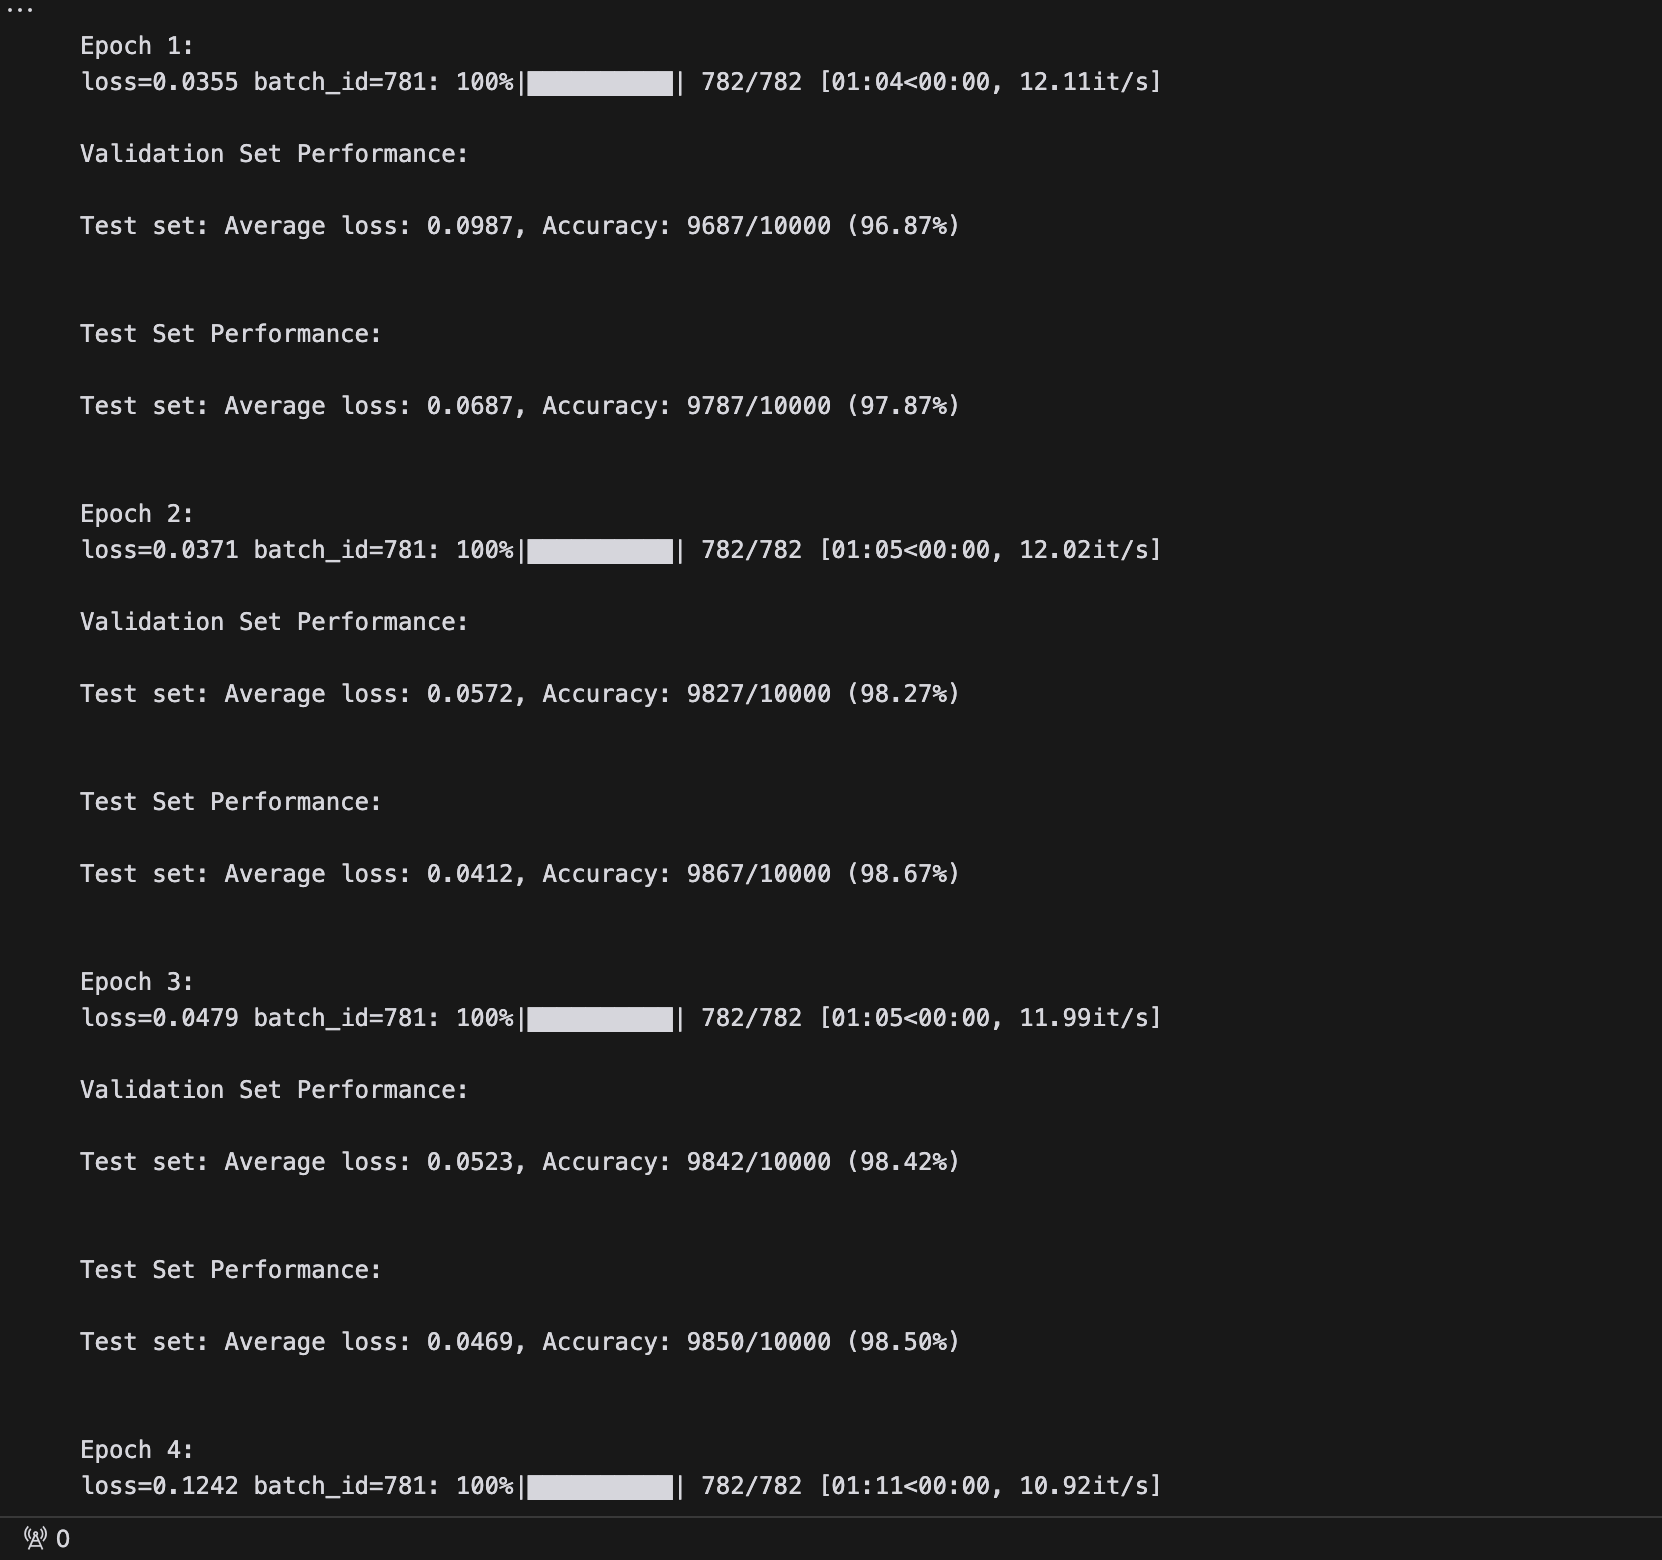
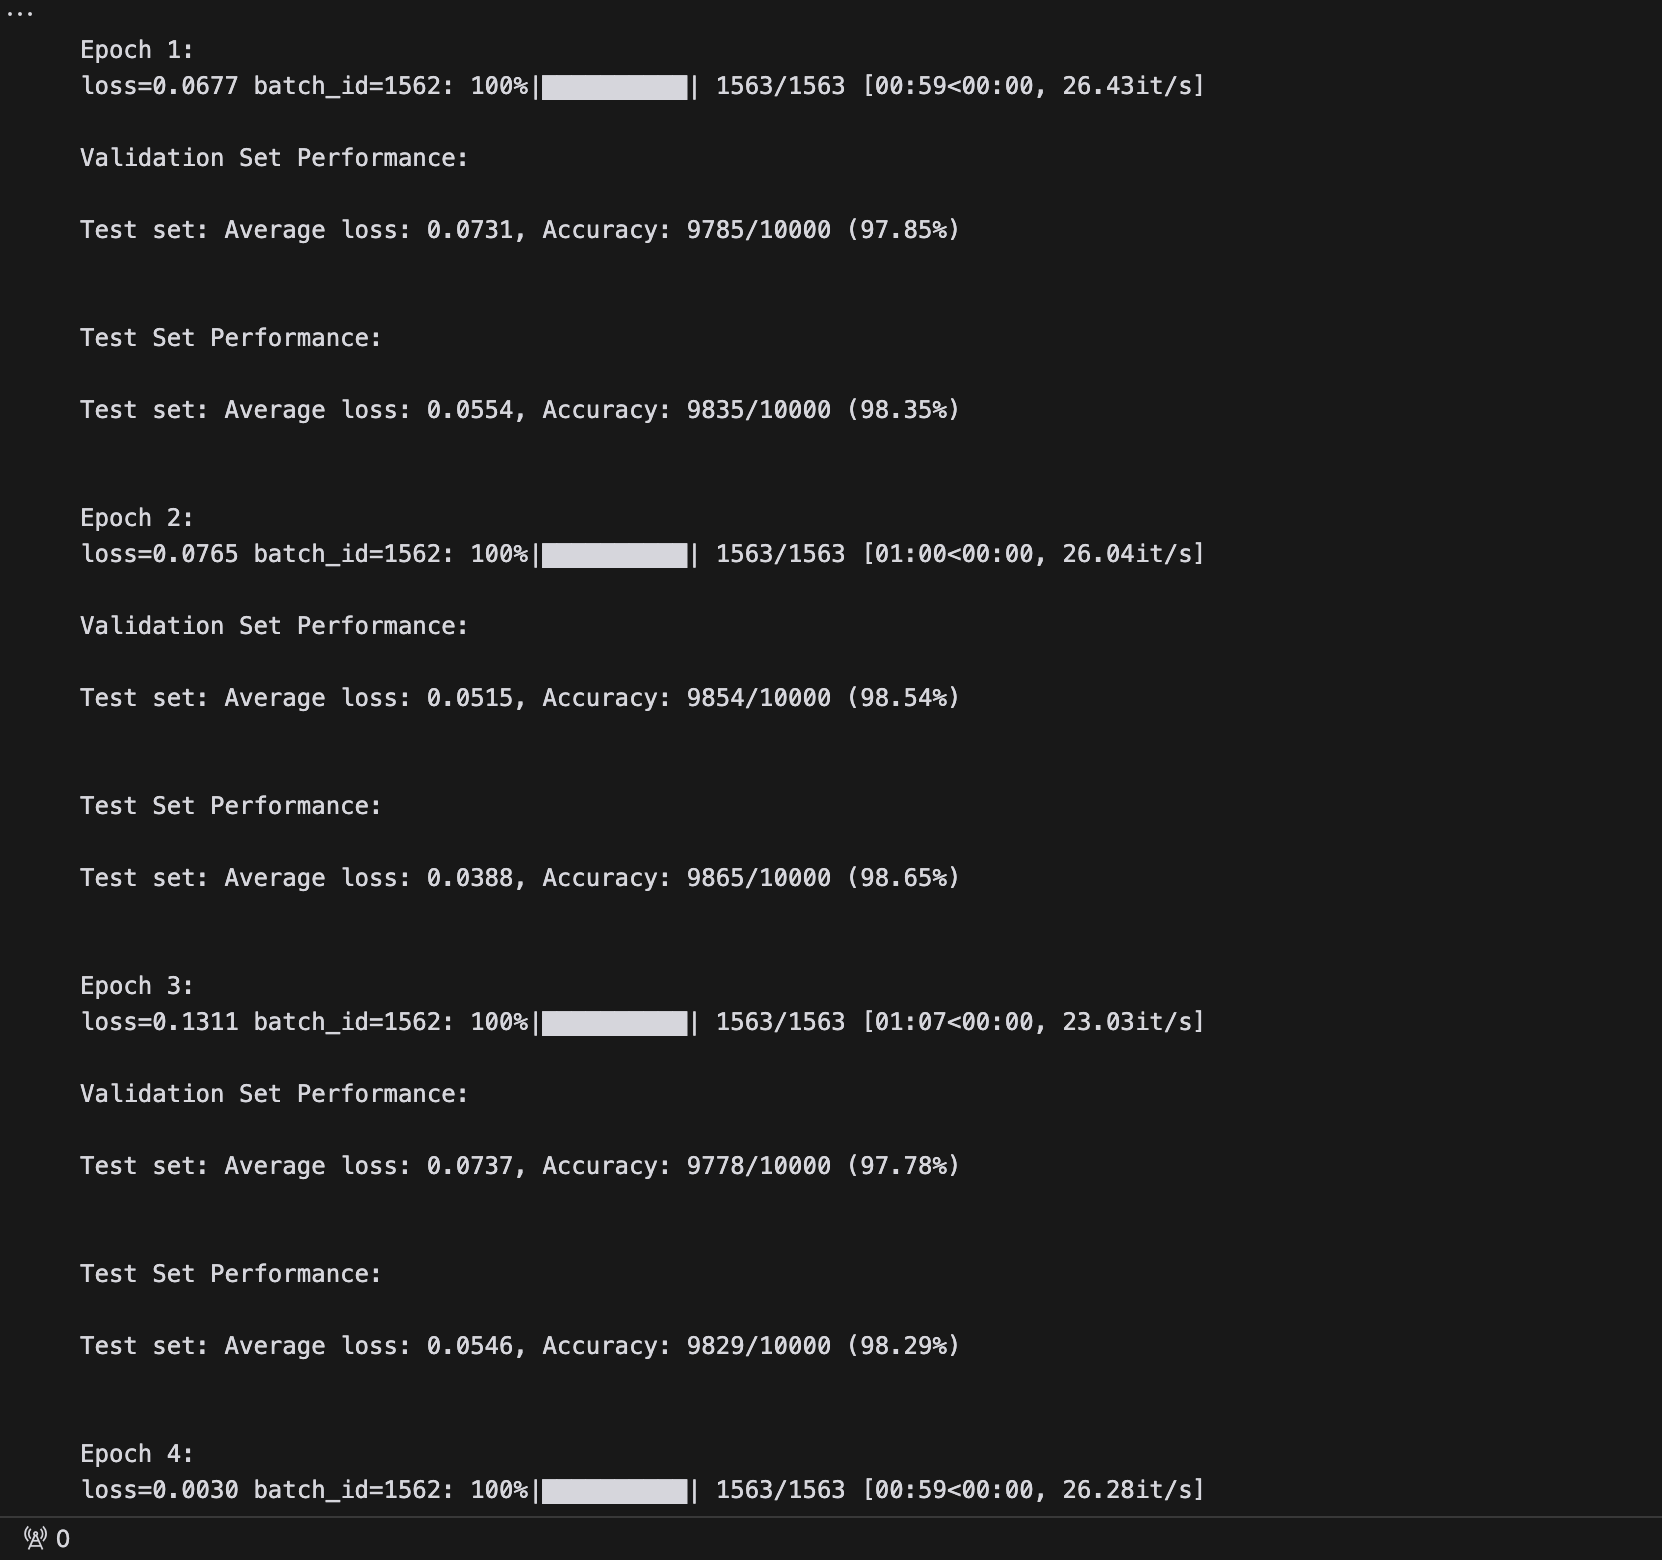
finished

diff --git a/mnist_99_4.py b/mnist_99_4.py
@@ -19,54 +19,54 @@ class Net(nn.Module):
         
         # CONV Block 1
         self.conv2 = nn.Sequential(
-            nn.Conv2d(16, 32, 3, padding=1),  # 28x28x32
+            nn.Conv2d(16, 20, 3, padding=1),  # 28x28x20
             nn.ReLU(),
-            nn.BatchNorm2d(32),
+            nn.BatchNorm2d(20),
             nn.Dropout(0.01)
         )
         
         # Transition Block 1
         self.trans1 = nn.Sequential(
-            nn.MaxPool2d(2, 2)  # 14x14x32
+            nn.MaxPool2d(2, 2)  # 14x14x20
         )
         
         # CONV Block 2
         self.conv3 = nn.Sequential(
-            nn.Conv2d(32, 32, 3, padding=1),  # 14x14x32
+            nn.Conv2d(20, 24, 3, padding=1),  # 14x14x24
             nn.ReLU(),
-            nn.BatchNorm2d(32),
+            nn.BatchNorm2d(24),
             nn.Dropout(0.01)
         )
         
         # CONV Block 3
         self.conv4 = nn.Sequential(
-            nn.Conv2d(32, 16, 3, padding=1),  # 14x14x16
+            nn.Conv2d(24, 20, 3, padding=1),  # 14x14x20
             nn.ReLU(),
-            nn.BatchNorm2d(16),
+            nn.BatchNorm2d(20),
             nn.Dropout(0.01)
         )
         
         # Transition Block 2
         self.trans2 = nn.Sequential(
-            nn.MaxPool2d(2, 2)  # 7x7x16
+            nn.MaxPool2d(2, 2)  # 7x7x20
         )
         
         # CONV Block 4
         self.conv5 = nn.Sequential(
-            nn.Conv2d(16, 32, 3),  # 5x5x32
+            nn.Conv2d(20, 24, 3),  # 5x5x24
             nn.ReLU(),
-            nn.BatchNorm2d(32),
+            nn.BatchNorm2d(24),
             nn.Dropout(0.01)
         )
         
         # Global Average Pooling
         self.gap = nn.Sequential(
-            nn.AvgPool2d(kernel_size=5)  # 1x1x32
+            nn.AvgPool2d(kernel_size=5)  # 1x1x24
         )
         
         # Output Block
         self.conv6 = nn.Sequential(
-            nn.Conv2d(32, 10, 1)  # 1x1x10
+            nn.Conv2d(24, 10, 1)  # 1x1x10
         )
 
     def forward(self, x):
@@ -119,14 +119,14 @@ def main():
     
     torch.manual_seed(1)
     
-    batch_size = 64
+    batch_size = 32
     epochs = 19
     
     # Enhanced data augmentation
     train_transforms = transforms.Compose([
-        transforms.RandomRotation((-7.0, 7.0), fill=(1,)),
-        transforms.RandomAffine(degrees=0, translate=(0.1, 0.1), scale=(0.95, 1.05)),
-        transforms.RandomPerspective(distortion_scale=0.15, p=0.3),
+        transforms.RandomRotation((-5.0, 5.0), fill=(1,)),
+        transforms.RandomAffine(degrees=0, translate=(0.08, 0.08), scale=(0.97, 1.03)),
+        transforms.RandomPerspective(distortion_scale=0.1, p=0.2),
         transforms.ColorJitter(brightness=0.1, contrast=0.1),
         transforms.ToTensor(),
         transforms.Normalize((0.1307,), (0.3081,))
@@ -169,20 +169,20 @@ def main():
     model = Net().to(device)
     optimizer = optim.SGD(
         model.parameters(),
-        lr=0.01,
+        lr=0.008,
         momentum=0.95,
-        weight_decay=1e-4,
+        weight_decay=5e-5,
         nesterov=True
     )
     
     scheduler = optim.lr_scheduler.OneCycleLR(
         optimizer,
-        max_lr=0.1,
+        max_lr=0.12,
         epochs=epochs,
         steps_per_epoch=len(train_loader),
-        pct_start=0.2,
-        div_factor=10,
-        final_div_factor=100,
+        pct_start=0.25,
+        div_factor=15,
+        final_div_factor=150,
         anneal_strategy='cos'
     )
 

diff --git a/README.md b/README.md
@@ -7,7 +7,7 @@ This project implements a Convolutional Neural Network (CNN) for MNIST digit cla
 ### Early Training (Epochs 1-4)
 ![Early Training Progress](./images/early_training.png)
 
-### Final Training (Epochs 18-19)
+### Final Training (Epochs 16-18)
 ![Final Training Progress](./images/final_training.png)
 
 ## Model Architecture
@@ -26,29 +26,29 @@ Conv2d-1                  [-1, 16, 28, 28]     144
 ReLU-2                    [-1, 16, 28, 28]     0
 BatchNorm2d-3             [-1, 16, 28, 28]     32
 Dropout-4                 [-1, 16, 28, 28]     0
-Conv2d-5                  [-1, 32, 28, 28]     4,608
-ReLU-6                    [-1, 32, 28, 28]     0
-BatchNorm2d-7             [-1, 32, 28, 28]     64
-Dropout-8                 [-1, 32, 28, 28]     0
-MaxPool2d-9               [-1, 32, 14, 14]     0
-Conv2d-10                 [-1, 32, 14, 14]     9,216
-ReLU-11                   [-1, 32, 14, 14]     0
-BatchNorm2d-12            [-1, 32, 14, 14]     64
-Dropout-13                [-1, 32, 14, 14]     0
-Conv2d-14                 [-1, 16, 14, 14]     4,608
-ReLU-15                   [-1, 16, 14, 14]     0
-BatchNorm2d-16            [-1, 16, 14, 14]     32
-Dropout-17                [-1, 16, 14, 14]     0
-MaxPool2d-18              [-1, 16, 7, 7]       0
-Conv2d-19                 [-1, 32, 5, 5]       4,608
-ReLU-20                   [-1, 32, 5, 5]       0
-BatchNorm2d-21            [-1, 32, 5, 5]       64
-Dropout-22                [-1, 32, 5, 5]       0
-AvgPool2d-23              [-1, 32, 1, 1]       0
-Conv2d-24                 [-1, 10, 1, 1]       320
+Conv2d-5                  [-1, 20, 28, 28]     2,880
+ReLU-6                    [-1, 20, 28, 28]     0
+BatchNorm2d-7             [-1, 20, 28, 28]     40
+Dropout-8                 [-1, 20, 28, 28]     0
+MaxPool2d-9               [-1, 20, 14, 14]     0
+Conv2d-10                 [-1, 24, 14, 14]     4,320
+ReLU-11                   [-1, 24, 14, 14]     0
+BatchNorm2d-12            [-1, 24, 14, 14]     48
+Dropout-13                [-1, 24, 14, 14]     0
+Conv2d-14                 [-1, 20, 14, 14]     4,320
+ReLU-15                   [-1, 20, 14, 14]     0
+BatchNorm2d-16            [-1, 20, 14, 14]     40
+Dropout-17                [-1, 20, 14, 14]     0
+MaxPool2d-18              [-1, 20, 7, 7]       0
+Conv2d-19                 [-1, 24, 5, 5]       4,320
+ReLU-20                   [-1, 24, 5, 5]       0
+BatchNorm2d-21            [-1, 24, 5, 5]       48
+Dropout-22                [-1, 24, 5, 5]       0
+AvgPool2d-23              [-1, 24, 1, 1]       0
+Conv2d-24                 [-1, 10, 1, 1]       250
 ================================================================
-Total params: 19,768
-Trainable params: 19,768
+Total params: 16,442
+Trainable params: 16,442
 Non-trainable params: 0
 
 ## Key Features
@@ -60,15 +60,15 @@ Non-trainable params: 0
 
 2. **Training Parameters:**
    - Epochs: 19
-   - Batch Size: 64
+   - Batch Size: 32
    - Optimizer: SGD with Nesterov momentum (0.95)
-   - Learning Rate: OneCycleLR (max_lr=0.1)
-   - Weight Decay: 1e-4
+   - Learning Rate: OneCycleLR (max_lr=0.12)
+   - Weight Decay: 5e-5
 
 3. **Data Augmentation:**
-   - Random Rotation (±7°)
-   - Random Affine (translate=0.1, scale=0.95-1.05)
-   - Random Perspective (p=0.3)
+   - Random Rotation (±5°)
+   - Random Affine (translate=0.08, scale=0.97-1.03)
+   - Random Perspective (p=0.2, distortion_scale=0.1)
    - Color Jitter (brightness=0.1, contrast=0.1)
 
 ## Results
